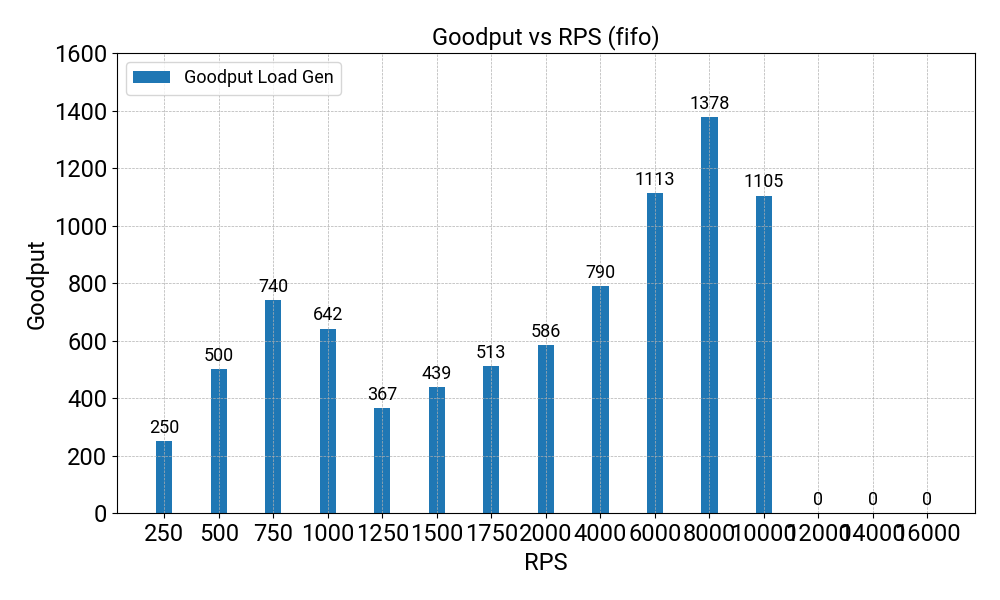
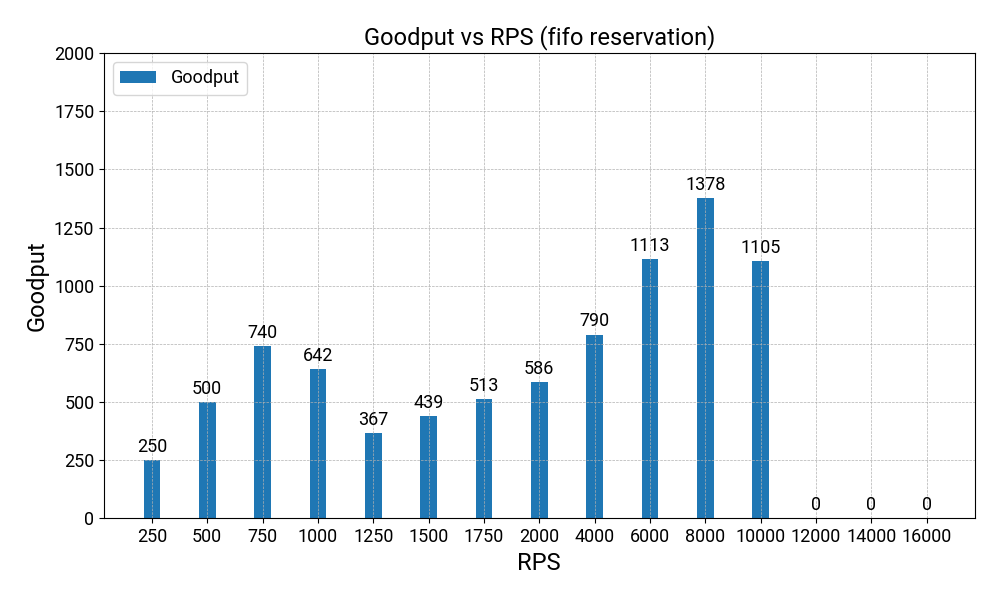
chore: Plot styles

diff --git a/reboot-hotel/scripts/plots/plot_core.py b/reboot-hotel/scripts/plots/plot_core.py
@@ -6,25 +6,25 @@ import matplotlib.ticker as ticker
 import numpy as np
 
 plt.rcParams["font.family"] = "Roboto"
-fontsize = 17
+fontsize_large = 17
 fontsize_medium = 13
 fontsize_small = 11
 fontsize_tiny = 9
 plt.rcParams.update(
     {
-        "font.size": fontsize,
-        "axes.labelsize": fontsize,
-        "axes.titlesize": fontsize,
-        "xtick.labelsize": fontsize,
-        "ytick.labelsize": fontsize,
-        "legend.fontsize": fontsize,
+        "font.size": fontsize_large,
+        "axes.labelsize": fontsize_large,
+        "axes.titlesize": fontsize_large,
+        "xtick.labelsize": fontsize_medium,
+        "ytick.labelsize": fontsize_medium,
+        "legend.fontsize": fontsize_large,
     }
 )
 
 COLORS = ["tab:blue", "tab:orange", "tab:purple", "tab:red", "tab:green"]
 MARKERS = ["o", "x", "^", "*", "s"]
 Y_MIN = 0
-Y_MAX = 1600
+Y_MAX = 2000
 
 
 def parse_args() -> argparse.Namespace:
@@ -71,14 +71,12 @@ def plot_goodput_line(results: List[Dict[str, Any]], fig_name: str, mode: str):
 def plot_goodput_bar(results: List[Dict[str, Any]], fig_name: str, mode: str):
     rps_values = [result["rps"] for result in results]
     goodputs_load_gen = [result["goodput_load_gen"] for result in results]
-    # goodputs_fe = [result["goodput_fe"] for result in results]
 
     x = np.arange(len(rps_values))
     width = 0.3
 
     fig, ax = plt.subplots(figsize=(10, 6))
-    rects1 = ax.bar(x, goodputs_load_gen, width, label="Goodput Load Gen")
-    # rects2 = ax.bar(x + width * 0.5, goodputs_fe, width, label="Goodput FE")
+    rects1 = ax.bar(x, goodputs_load_gen, width, label="Goodput")
 
     ax.set_xlabel("RPS")
     ax.set_ylabel("Goodput")
@@ -101,7 +99,6 @@ def plot_goodput_bar(results: List[Dict[str, Any]], fig_name: str, mode: str):
             )
 
     autolabel(rects1)
-    # autolabel(rects2)
 
     fig.tight_layout()
     plt.ylim(Y_MIN, Y_MAX)
@@ -109,9 +106,10 @@ def plot_goodput_bar(results: List[Dict[str, Any]], fig_name: str, mode: str):
     plt.savefig(fig_name)
 
 
-def plot_goodput_apis_bar(results: List[Dict[str, Any]], fig_name: str, mode: str):
-    apis = ["Search", "Reservation"]
-    labels = ["Goodput Search", "Goodput Reservation"]
+def plot_goodput_apis_bar(
+    apis: List[str], results: List[Dict[str, Any]], fig_name: str, mode: str
+):
+    labels = [f"Goodput {api}" for api in apis]
 
     rps_values = [result["rps"] for result in results if result["api"] == apis[0]]
     goodputs = [
@@ -123,8 +121,13 @@ def plot_goodput_apis_bar(results: List[Dict[str, Any]], fig_name: str, mode: st
     width = 0.3
 
     fig, ax = plt.subplots(figsize=(10, 6))
-    rects1 = ax.bar(x - width * 0.5, goodputs[0], width, label=labels[0])
-    rects2 = ax.bar(x + width * 0.5, goodputs[1], width, label=labels[1])
+    if len(apis) == 1:
+        rects1 = ax.bar(x, goodputs[0], width, label=labels[0])
+    elif len(apis) == 2:
+        rects1 = ax.bar(x - width * 0.5, goodputs[0], width, label=labels[0])
+        rects2 = ax.bar(x + width * 0.5, goodputs[1], width, label=labels[1])
+    else:
+        raise ValueError("Expected 1 or 2 APIs")
 
     ax.set_xlabel("RPS")
     ax.set_ylabel("Goodput")
@@ -143,11 +146,14 @@ def plot_goodput_apis_bar(results: List[Dict[str, Any]], fig_name: str, mode: st
                 textcoords="offset points",
                 ha="center",
                 va="bottom",
-                fontsize=fontsize_tiny,
+                fontsize=fontsize_small,
             )
 
-    autolabel(rects1)
-    autolabel(rects2)
+    if len(apis) == 1:
+        autolabel(rects1)
+    elif len(apis) == 2:
+        autolabel(rects1)
+        autolabel(rects2)
 
     fig.tight_layout()
     plt.ylim(Y_MIN, Y_MAX)
@@ -503,9 +509,9 @@ def plot_goodput_per_rps(result: Dict[str, Any], fig_name: str):
     fig, ax = plt.subplots(figsize=(10, 6))
     ax.plot(result["goodput_per_rps"], color="tab:blue")
 
-    ax.set_title(f"Goodput per RPS", fontsize=fontsize)
-    ax.set_xlabel("Time (Seconds)", fontsize=fontsize)
-    ax.set_ylabel("Goodput", fontsize=fontsize)
+    ax.set_title(f"Goodput per RPS", fontsize=fontsize_large)
+    ax.set_xlabel("Time (Seconds)", fontsize=fontsize_large)
+    ax.set_ylabel("Goodput", fontsize=fontsize_large)
 
     plt.grid(True, linestyle="--", alpha=0.7)
     plt.savefig(fig_name)

diff --git a/reboot-hotel/scripts/plots/plot_goodput.py b/reboot-hotel/scripts/plots/plot_goodput.py
@@ -32,9 +32,14 @@ for r in range(cfg["Repeats"]):
 
         rps_to_results.append(result)
 
+    apis = " ".join(cfg["Apis"]).lower()
     plot_goodput_bar(
-        rps_to_results, f"{args.path}/fig_goodput_rps_bar_{r}.png", args.mode
+        rps_to_results,
+        f"{args.path}/fig_goodput_rps_bar_{r}.png",
+        f"{args.mode} {apis}",
     )
+    if len(cfg["Apis"]) == 1:
+        continue
 
     rps_to_results = []
 
@@ -55,5 +60,8 @@ for r in range(cfg["Repeats"]):
             rps_to_results.append(result)
 
     plot_goodput_apis_bar(
-        rps_to_results, f"{args.path}/fig_goodput_apis_rps_bar_{r}.png", args.mode
+        cfg["Apis"],
+        rps_to_results,
+        f"{args.path}/fig_goodput_apis_rps_bar_{r}.png",
+        args.mode,
     )
